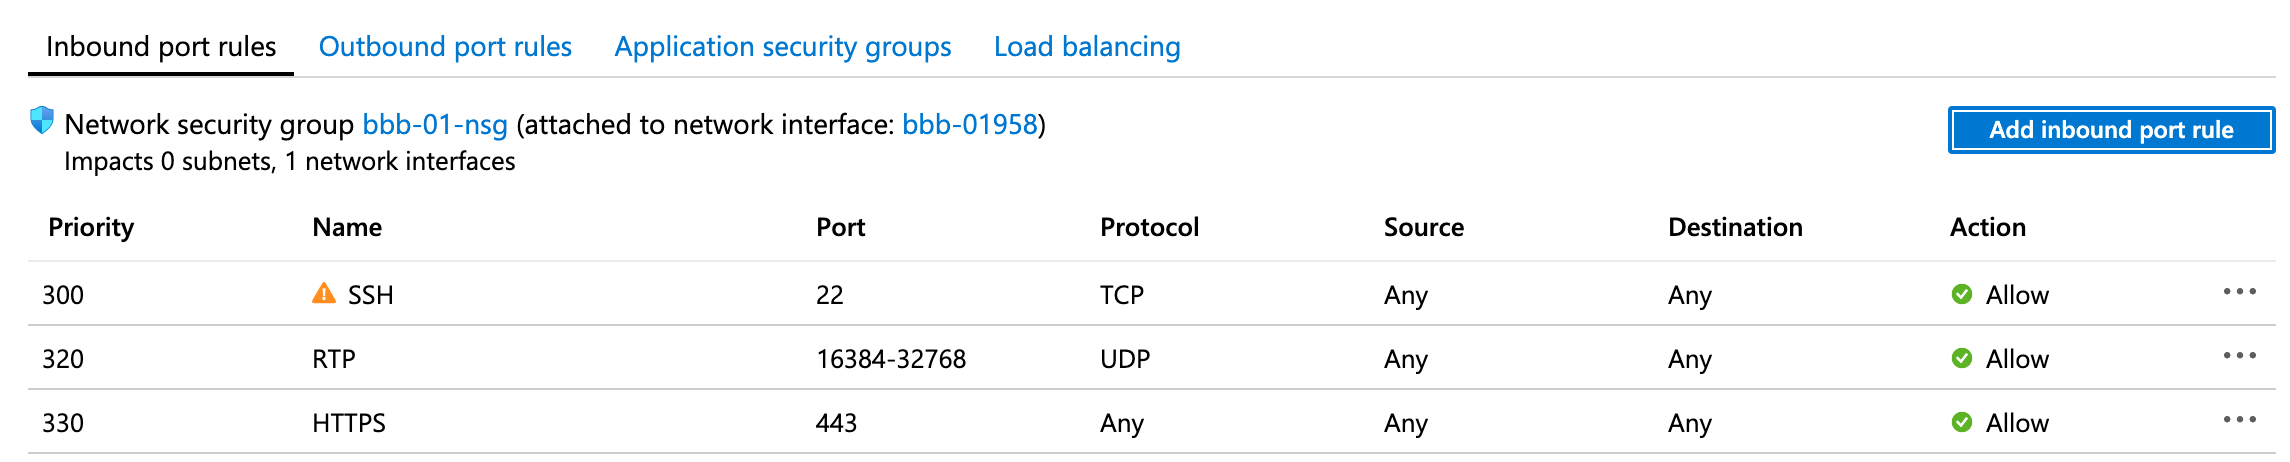
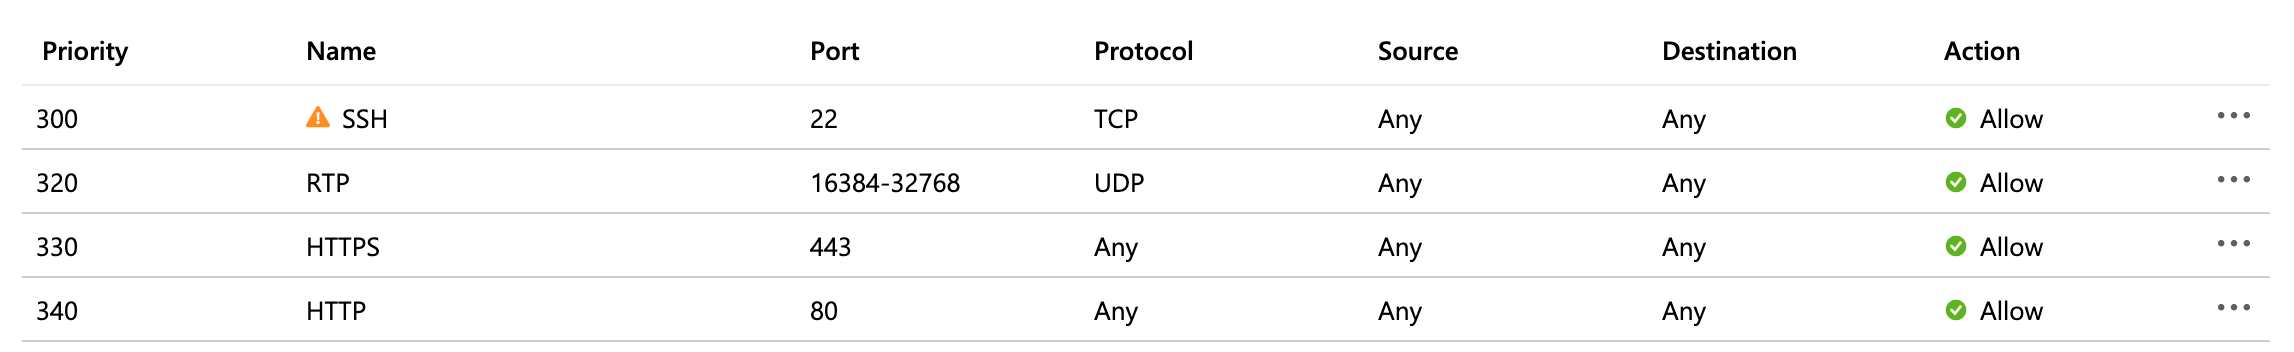
Fix broken links

diff --git a/_posts/2015-04-05-faq.md b/_posts/2015-04-05-faq.md
@@ -550,7 +550,7 @@ We designed BigBlueButton to be accessible to users with visual and/or audible d
 
 BigBlueButton supports both JAWS and NVDA screen readers.  When using a screen reader, we recommend using Internet Explorer or the 32-bit version of FireFox.  The 64-bit versions of FireFox and Chrome make it harder for screen readers to interact with the BigBlueButton client.  
 
-BigBlueButton supports [live closed captioning](/overview/overview.html#closed-captioning).  A stenographer can join the session and provide a live caption stream to all users (you can have multiple stenographers simultaneously providing captioning in multiple languages).  Later on, when BigBlueButton processes the recording, it will convert the closed captions to subtitles in the playback.
+BigBlueButton supports [live closed captioning](https://www.youtube.com/watch?time_continue=1&v=feC_zm1y3N4).  A stenographer can join the session and provide a live caption stream to all users (you can have multiple stenographers simultaneously providing captioning in multiple languages).  Later on, when BigBlueButton processes the recording, it will convert the closed captions to subtitles in the playback.
 
 For a full statement on our accessibility see [https://bigbluebutton.org/accessibility/](https://bigbluebutton.org/accessibility/).
 
@@ -977,7 +977,7 @@ If your feature belongs in category (3), you have options.  BigBlueButton is an 
 
 ### How can I donate money to the project
 
-The BigBlueButton project doesn't take donations.  We think it's a poor business model for running an open source project as it suggests the developers are working for charity.  
+The BigBlueButton project does not accept donations.  We think it's a poor business model for running an open source project as it suggests the developers are working for charity.  
 
 If you want to help the project financially, you can approach some of the companies offering [commercial support](http://bigbluebutton.org/support) for BigBlueButton and engage their services.  Doing so creates a healthy ecosystem around the project where companies are encouraged to contribute their resources to improve the project to create a larger pool of potential customers wanting their services.
 
@@ -985,16 +985,4 @@ We appreciate positive feedback on our project as well.  If you are on Twitter, 
 
 ### How do I change the brand of BigBlueButton
 
-There have been a number of companies (and individuals) posting to the
-mailing list asking for help in branding BigBlueButton.
-
-In recent releases you can now [brand](/dev/branding.html) the BigBlueButton interface.  However, the URL shows the word bigbluebutton.  There are a lot of places in the code that need to be manually changed (and tested) to change this string, and these manual changes would need
-to be updated (and tested anew) for each new version of BigBlueButton.
-
-From the point of view of the open source project, having the word bigbluebutton in the URL spreads awareness of the project and increases the community, which benefits everyone.  We know that many companies have released products based on BigBlueButton, and they enjoy the commercial benefits of building on open source, and the project enjoys the increased awareness.  Everyone wins.
-
-Still, from time to time, we see individual posts in our developer mailing list (usually from a commercial company) asking for help to completely remove all references to BigBlueButton.  Rather than have the core developers support such branding efforts, we believe the best option is to have the individual contact one of the companies that provide [commercial support](http://bigbluebutton.org/support) for BigBlueButton.
-
-Doing this removes the inevitable problems that arise when manual code changes break in a new release thereby creating a flood of forum posts with the title "My branding changes no longer work -- please help me!!"
-
-Most importantly for everyone, the efforts to support a [white labeled](http://en.wikipedia.org/wiki/White-label_product) version of BigBlueButton won't take away from core development, but rather support it.
+To brand BigBlueButton, setup the [development environment](/2.2/dev.html) to create your own version of the HTML5 client.  You can use the browser's inspect tools to see where each item you want to brand is loaded.

diff --git a/_posts/2019-02-14-configure-firewall.md b/_posts/2019-02-14-configure-firewall.md
@@ -39,14 +39,35 @@ In this example, all users must connect to the BigBlueButton server via the unif
 
 When BigBlueButton is protected behind a firewall, you need to configure the firewall to forward the following incoming connections to BigBlueButton:
 
-* TCP ports 80, 443, 1935, and 7443
-* UDP ports in the range 16384 - 32768
+  * TCP/IP port 22 (for SSH)
+  * TCP/IP ports 80/443 (for HTTP/HTTPS)
+  * UDP ports in the range 16384 - 32768 (for FreeSWITCH/HTML5 RTP streams)
 
-In the case where you have installed BigBlueButton on Amazon EC2, you need to add rules to the server's associated security group (which serves as a firewall) to allow the above TCP and UDP connections.
+## EC2
 
-After you have made the changes, before proceeding to the installation, take a moment and test that you have configured the firewall to correctly forward the above connections (this will save you time later on if you encounter issues).
+If you are using EC2, you should also assign your server an [Elastic IP address](https://docs.aws.amazon.com/AWSEC2/latest/UserGuide/elastic-ip-addresses-eip.html) to prevent it from getting a new IP address on reboot.
 
-## Testing the firewall
+
+## Azure
+
+On Microsot Azure, when you create an instance you need to add the following inbound port rules to enable incomming connections on ports 80, 443, and UDP port range 16384-32768:
+
+![Azure Cloud ](/images/azure-firewall.png?raw=true "Azure 80, 443, and UDP 16384-32768")
+
+## Google Compute Engine
+
+On Google Compute Engine, when you create an instance you need to enable traffic on port 80 and 443.
+
+![Google Compute Engine 80-443](/images/gce-80-443.png?raw=true "GCE 80 and 443")
+
+After the instance is created, you need to add a firewall rule to allow incoming UDP traffic on the port range 16384-32768.
+
+![Google Compute Engine Firewall](/images/gce-firewall.png?raw=true "GCE Firewall")
+
+
+# Testing the firewall
+
+After you have made the changes to you firewall settings, before proceeding to the installation, take a moment and test that you have configured the firewall to correctly forward the above connections (this will save you time later on if you encounter issues).
 
 To test connections on various ports needed by BigBlueButton, you will use a tool called `netcat` to listen for connections.  You'll use `netcat` on the BigBlueButton server and on external server (outside the firewall) to generate connections.  If the connections test fail, then the firewall is forwarding the packets.
 

diff --git a/_posts/2019-04-15-gl-config.md b/_posts/2019-04-15-gl-config.md
@@ -2,6 +2,8 @@
 layout: page
 title: "Configure"
 category: greenlight
+redirect_from:
+  - /greenlight/gl-configure.html
 date: 2019-04-16 16:26:25
 ---
 
